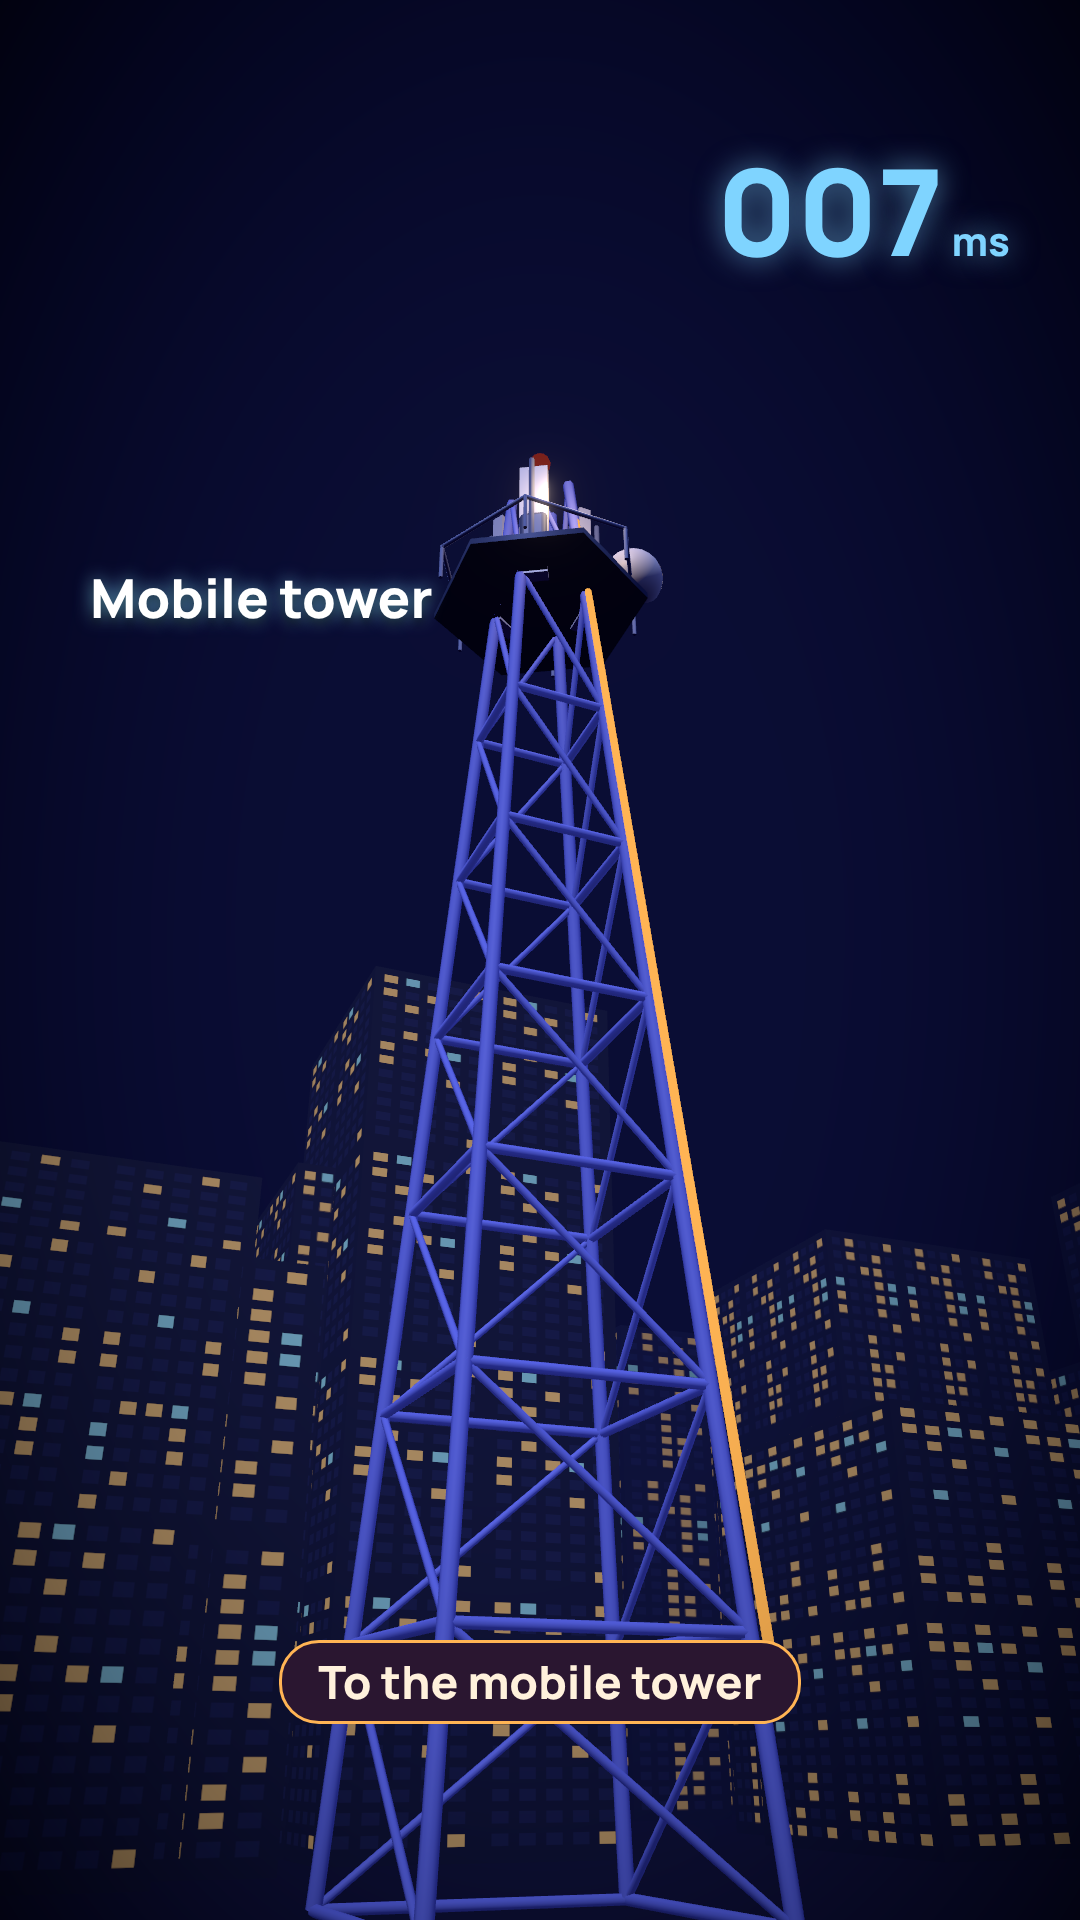
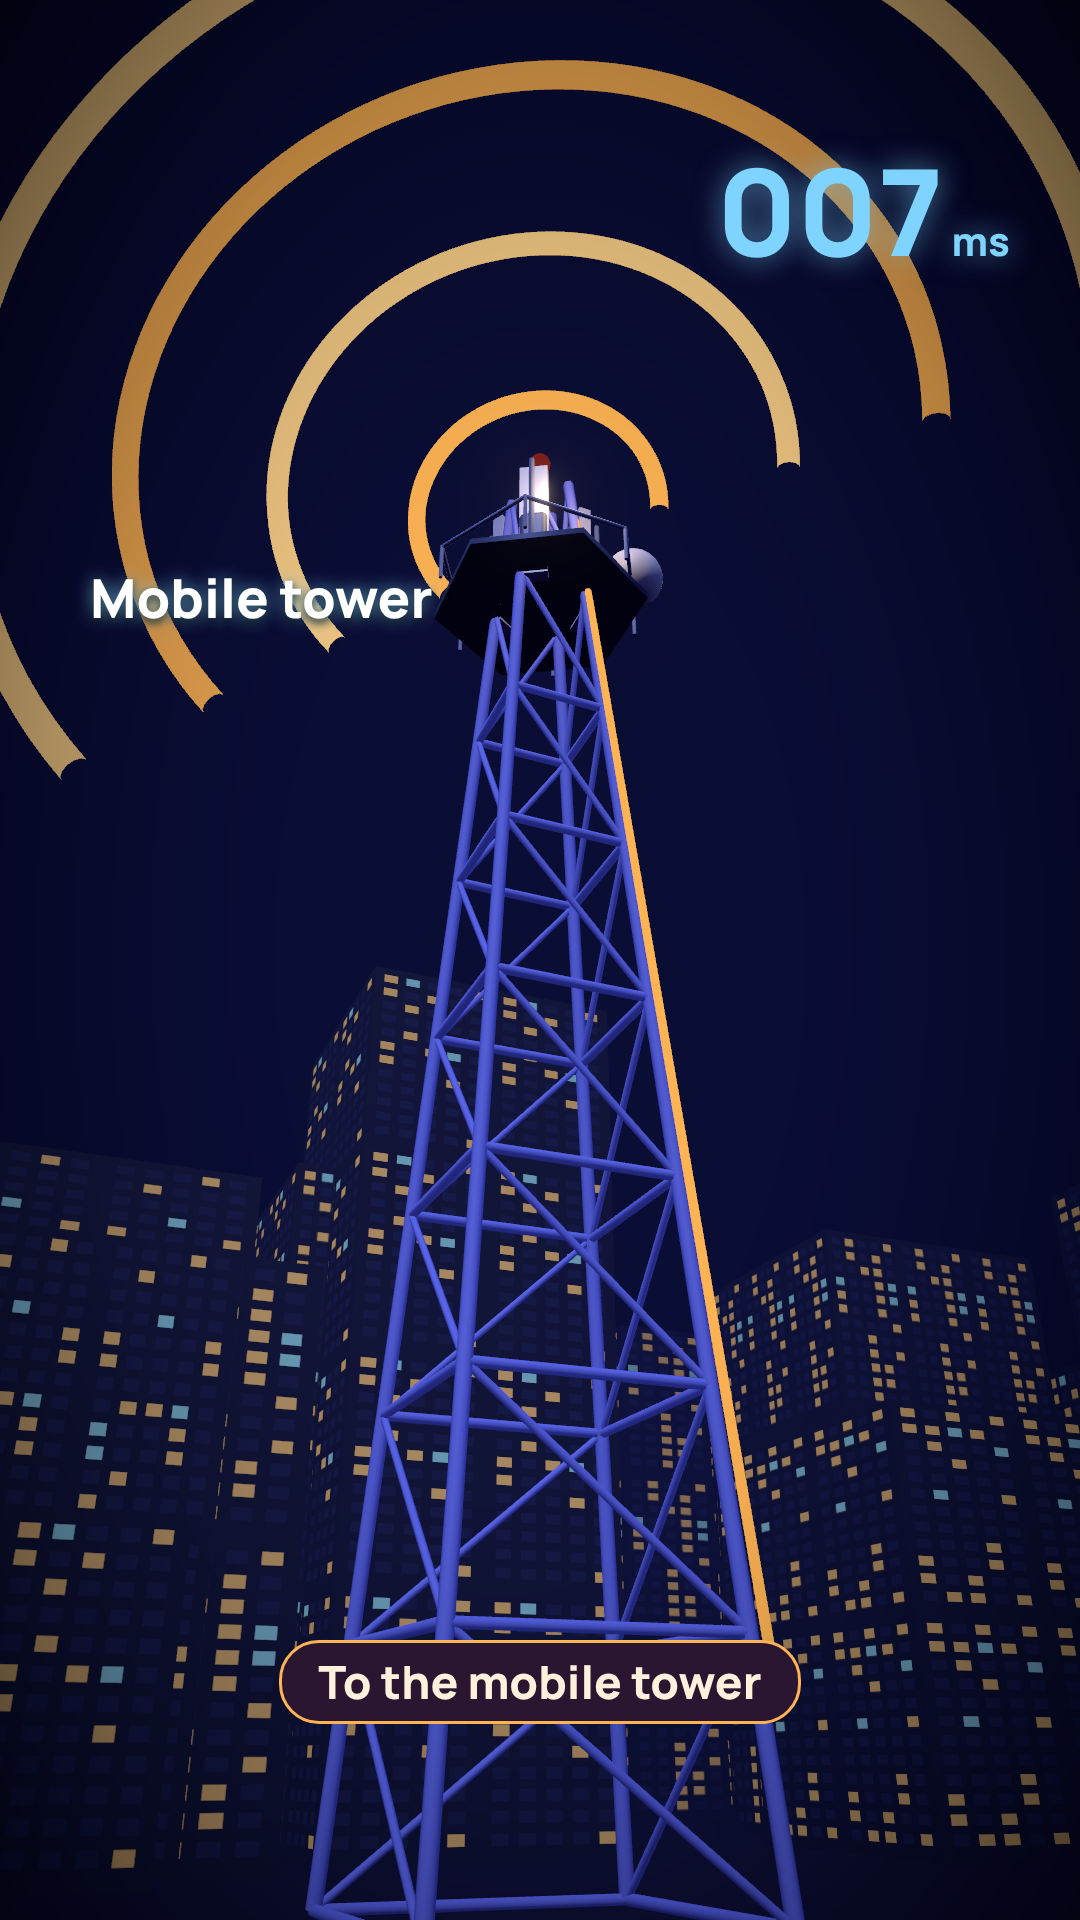
Tower scene: signal waves at the antennas (stills)
Claude-Session: https://claude.ai/code/session_01GXcKc5WpkD8jhBf44cT6jS

diff --git a/internet/v3/src/v4/TowerHyd.tsx b/internet/v3/src/v4/TowerHyd.tsx
@@ -34,6 +34,9 @@ const Cables: React.FC<{ beat: number }> = ({ beat }) => { const top = V(TOWER.x
 const Waves: React.FC = () => (<group position={[0.3, 3.4, 0]} quaternion={new THREE.Quaternion().setFromUnitVectors(V(0, 0, 1), TOWER.clone().sub(V(0, 3.2, 0)).normalize())}>
   {Array.from({ length: 6 }).map((_, k) => { const u = k / 6; return <mesh key={k} position={[0, 0, 1.5 + u * 24]}><torusGeometry args={[1.2 + u * 9, 0.09 + u * 0.1, 10, 70, Math.PI * 1.1]} /><meshBasicMaterial color="#ffb454" transparent opacity={0.85 * (1 - u * 0.8)} /></mesh>; })}
 </group>);
+/* the signal waves arriving at the antennas: curved gold arcs travelling in from the phone's side */
+const Signal: React.FC<{ r0: number; step: number; n: number; w: number }> = ({ r0, step, n, w }) => { const dir = V(0, 3.2, 0).sub(TOWER).normalize(), q = new THREE.Quaternion().setFromUnitVectors(V(0, 0, 1), dir);
+  return <group position={[TOWER.x, BASE + 21.2, TOWER.z]} quaternion={q}>{Array.from({ length: n }).map((_, k) => { const u = k / n; return <mesh key={k} position={[0, 0, 0.5 + k * step * 0.6]}><torusGeometry args={[r0 + k * step, w * (1 + u), 12, 80, Math.PI * 1.25]} /><meshBasicMaterial color={k % 2 ? '#ffd38a' : '#ffb454'} transparent opacity={0.95 - u * 0.65} /></mesh>; })}</group>; };
 const Panels: React.FC = () => (<group position={[TOWER.x, BASE + 20.4, TOWER.z]}>
   {/* walkway ring with a soft railing, a radio unit behind each antenna, a dish, cable bundles */}
   <mesh position={[0, -1.2, 0]}><cylinderGeometry args={[1.9, 1.9, 0.12, 6]} /><meshStandardMaterial color="#5a6aa0" roughness={0.6} metalness={0.4} /></mesh>
@@ -49,7 +52,7 @@ const Scene: React.FC<{ beat: number }> = ({ beat }) => (<AbsoluteFill style={{ 
   <ThreeCanvas width={F.W} height={F.H} gl={{ antialias: true }} camera={{ fov: 36, near: 0.05, far: 400 }}>
     <Cam beat={beat} /><color attach="background" args={['#0a0d34']} /><fog attach="fog" args={['#0c1040', 30, 160]} />
     <hemisphereLight args={['#7f8cff', '#160c44', 1.15]} /><directionalLight position={[-8, 12, 10]} intensity={1.3} color="#c9d2ff" />
-    <City /><Tower t={0} />{beat === 1 && <Waves />}{beat >= 2 && beat <= 3 && <Panels />}{beat >= 2 && <Cables beat={beat} />}{beat === 4 && <Cabinet />}
+    <City /><Tower t={0} />{beat === 1 && <Waves />}{beat >= 2 && beat <= 3 && <Panels />}{beat === 2 && <Signal r0={2.2} step={2.2} n={6} w={0.16} />}{beat === 3 && <Signal r0={1.2} step={1.1} n={6} w={0.06} />}{beat >= 2 && <Cables beat={beat} />}{beat === 4 && <Cabinet />}
     <EffectComposer><Bloom intensity={0.6} luminanceThreshold={0.8} luminanceSmoothing={0.2} mipmapBlur /><Vignette eskil={false} offset={0.22} darkness={0.7} /></EffectComposer>
   </ThreeCanvas>
   <div style={{ position: 'absolute', right: 70, top: 150, display: 'flex', alignItems: 'baseline', gap: 8, font: `800 120px/1 ${FONT.ui}`, color: '#7fd4ff', textShadow: '0 0 30px rgba(127,212,255,.6)' }}>{['', '005', '007', '007', '008'][beat]}<span style={{ font: `800 40px ${FONT.ui}` }}>ms</span></div>
